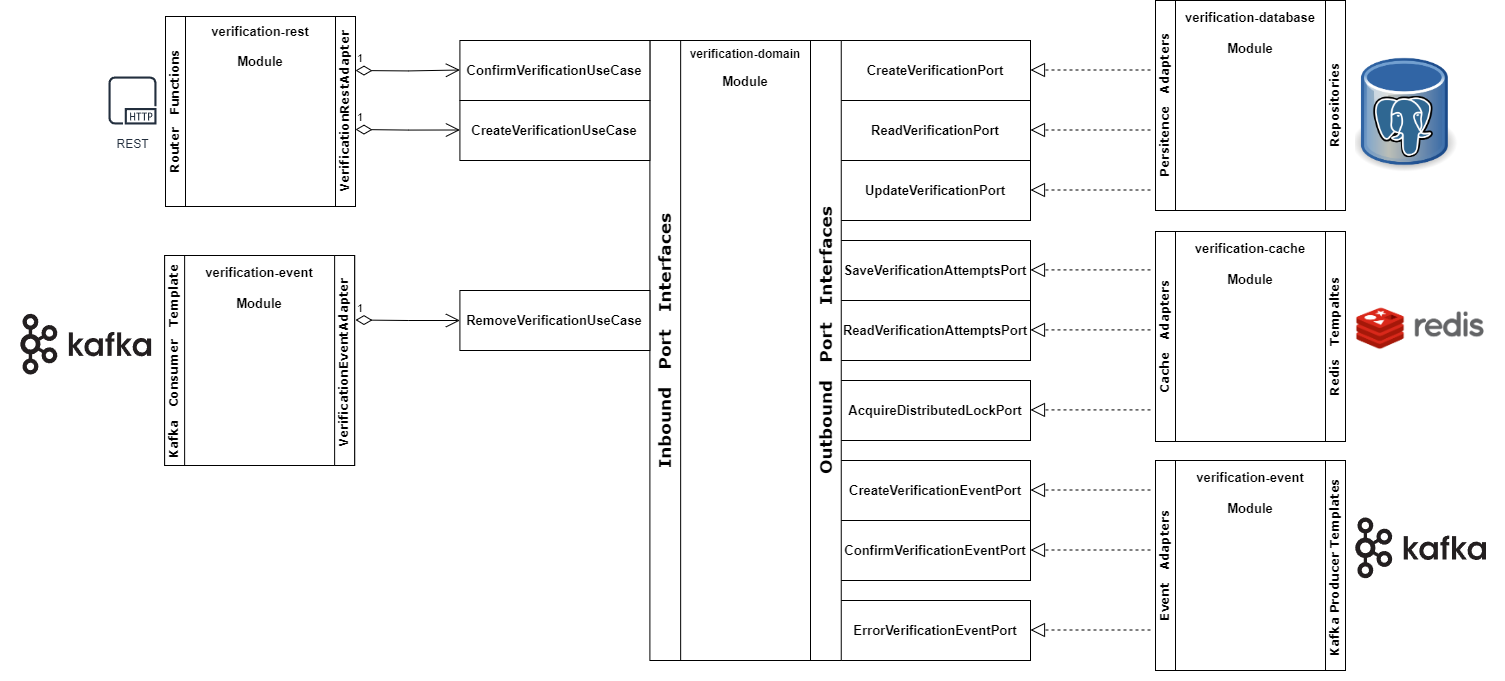
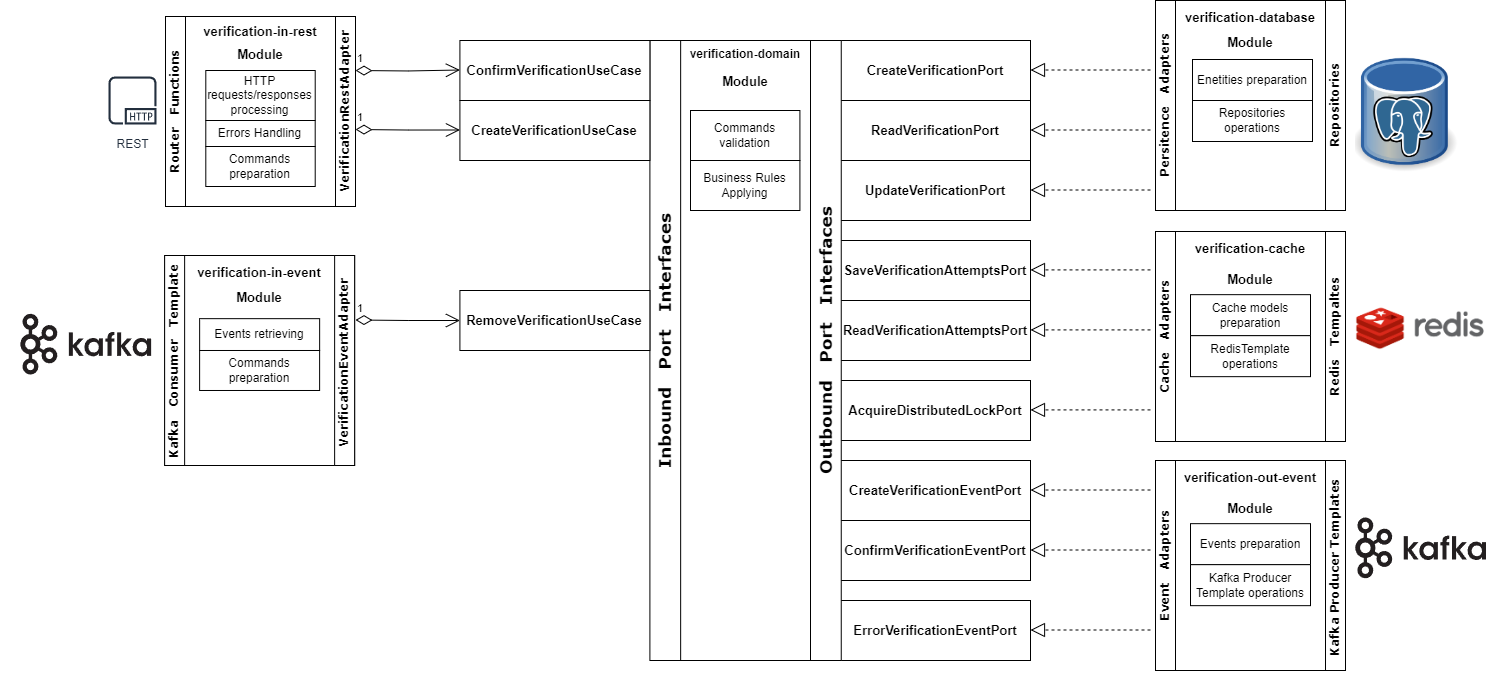
Frameworks upgrade, Kafka integration, CreateVerificationEvent impl

diff --git a/verification/verification-out/verification-out-event/src/main/kotlin/com/examples/verification/out/event/config/KafkaConfig.kt b/verification/verification-out/verification-out-event/src/main/kotlin/com/examples/verification/out/event/config/KafkaConfig.kt
@@ -1,0 +1,19 @@
+package com.examples.verification.out.event.config
+
+import com.examples.verification.out.event.model.CreateVerificationEvent
+import org.springframework.boot.autoconfigure.kafka.KafkaProperties
+import org.springframework.context.annotation.Bean
+import org.springframework.context.annotation.Configuration
+import org.springframework.kafka.core.reactive.ReactiveKafkaProducerTemplate
+import reactor.kafka.sender.SenderOptions
+
+
+@Configuration
+class KafkaConfig {
+
+    @Bean
+    fun createVerificationEventProducerTemplate(properties: KafkaProperties): ReactiveKafkaProducerTemplate<String, CreateVerificationEvent> {
+        val props = properties.buildProducerProperties()
+        return ReactiveKafkaProducerTemplate<String, CreateVerificationEvent>(SenderOptions.create(props))
+    }
+}

diff --git a/verification/verification-out/verification-out-event/src/main/kotlin/com/examples/verification/out/event/adapter/VerificationOutEventAdapter.kt b/verification/verification-out/verification-out-event/src/main/kotlin/com/examples/verification/out/event/adapter/VerificationOutEventAdapter.kt
@@ -1,0 +1,17 @@
+package com.examples.verification.out.event.adapter
+
+import com.examples.verification.domain.model.Verification
+import com.examples.verification.domain.port.outbound.CreateVerificationEventPort
+import com.examples.verification.domain.utils.aop.Adapter
+import com.examples.verification.out.event.model.CreateVerificationEvent
+import org.springframework.kafka.core.reactive.ReactiveKafkaProducerTemplate
+import reactor.core.publisher.Mono
+
+@Adapter
+class VerificationOutEventAdapter(
+    private val createVerificationEventTemplate: ReactiveKafkaProducerTemplate<String, CreateVerificationEvent>
+) : CreateVerificationEventPort {
+    override fun send(verification: Verification): Mono<Verification> {
+        TODO("Not yet implemented")
+    }
+}

diff --git a/verification/verification-out/verification-out-event/src/main/kotlin/com/examples/verification/out/event/model/CreateVerificationEvent.kt b/verification/verification-out/verification-out-event/src/main/kotlin/com/examples/verification/out/event/model/CreateVerificationEvent.kt
@@ -1,0 +1,10 @@
+package com.examples.verification.out.event.model
+
+import com.examples.verification.domain.model.Subject
+
+data class CreateVerificationEvent(
+    val id: String,
+    val code: String,
+    val subject: Subject,
+    val occurredOn: String
+)
